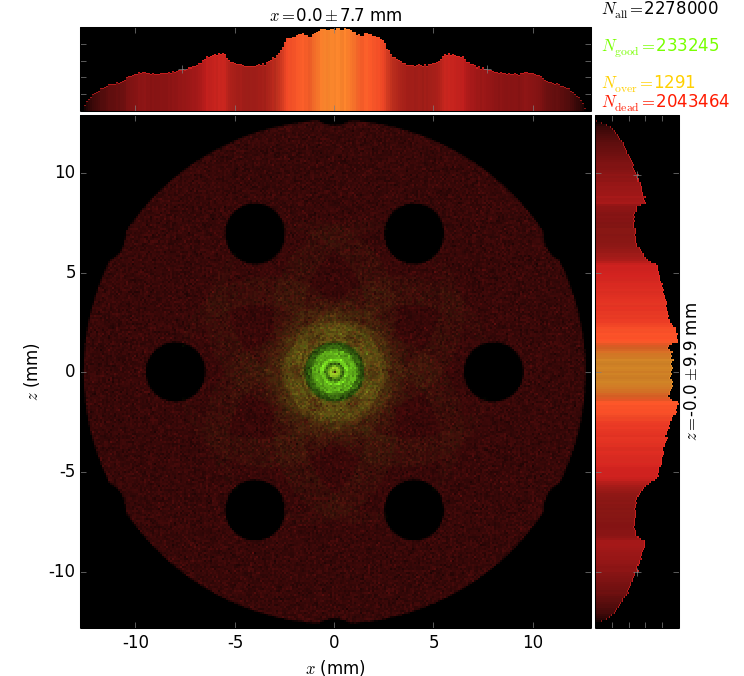
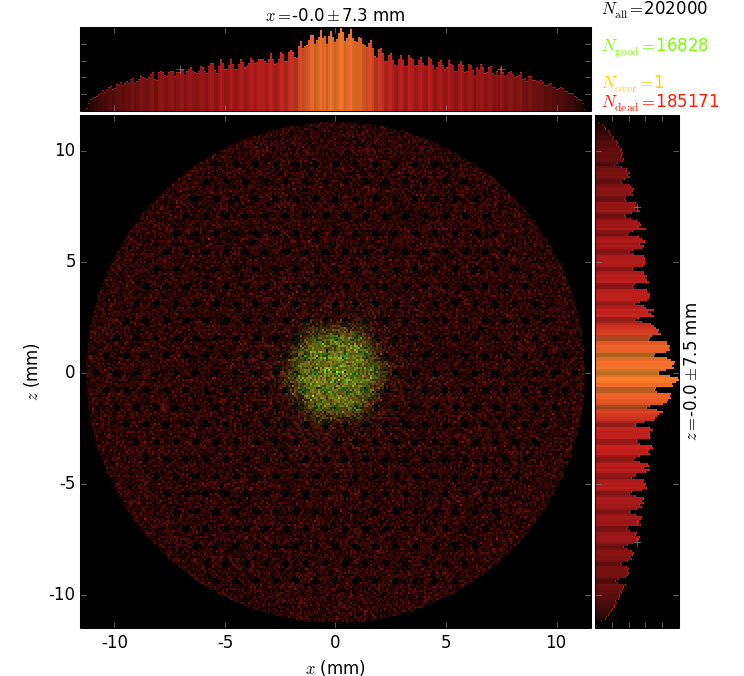
r0=0.01, d = 3f, layers = 13, observing divergence from thin cap-s

diff --git a/myCapillary0A.py b/myCapillary0A.py
@@ -24,9 +24,9 @@ mGlass = rm.Material(('Si', 'O'), quantities=(1, 2), rho=2.2)
 E0 = 9000.
 rSample = 100.
 f = 500. # y length in mm from foucs to the end of the lens
-r0 = 0.1
+r0 = 0.01
 wall = 0.02
-layers = 4 # number of hexagonal layers
+layers = 13 # number of hexagonal layers
 nRefl = 12
 nReflDisp = 12 # unused
 xzPrimeMax = 3.
@@ -49,7 +49,7 @@ class BentCapillary(roe.OE):
         self.isParametric = True
 
     def local_x0(self, s):  # axis of capillary, x(s)
-        return self.a0 * (s-150)**2 + self.b0
+        return self.a0 * (s-0)**2 + self.b0
 
     def local_x0Prime(self, s):
         return 2 * self.a0 * s
